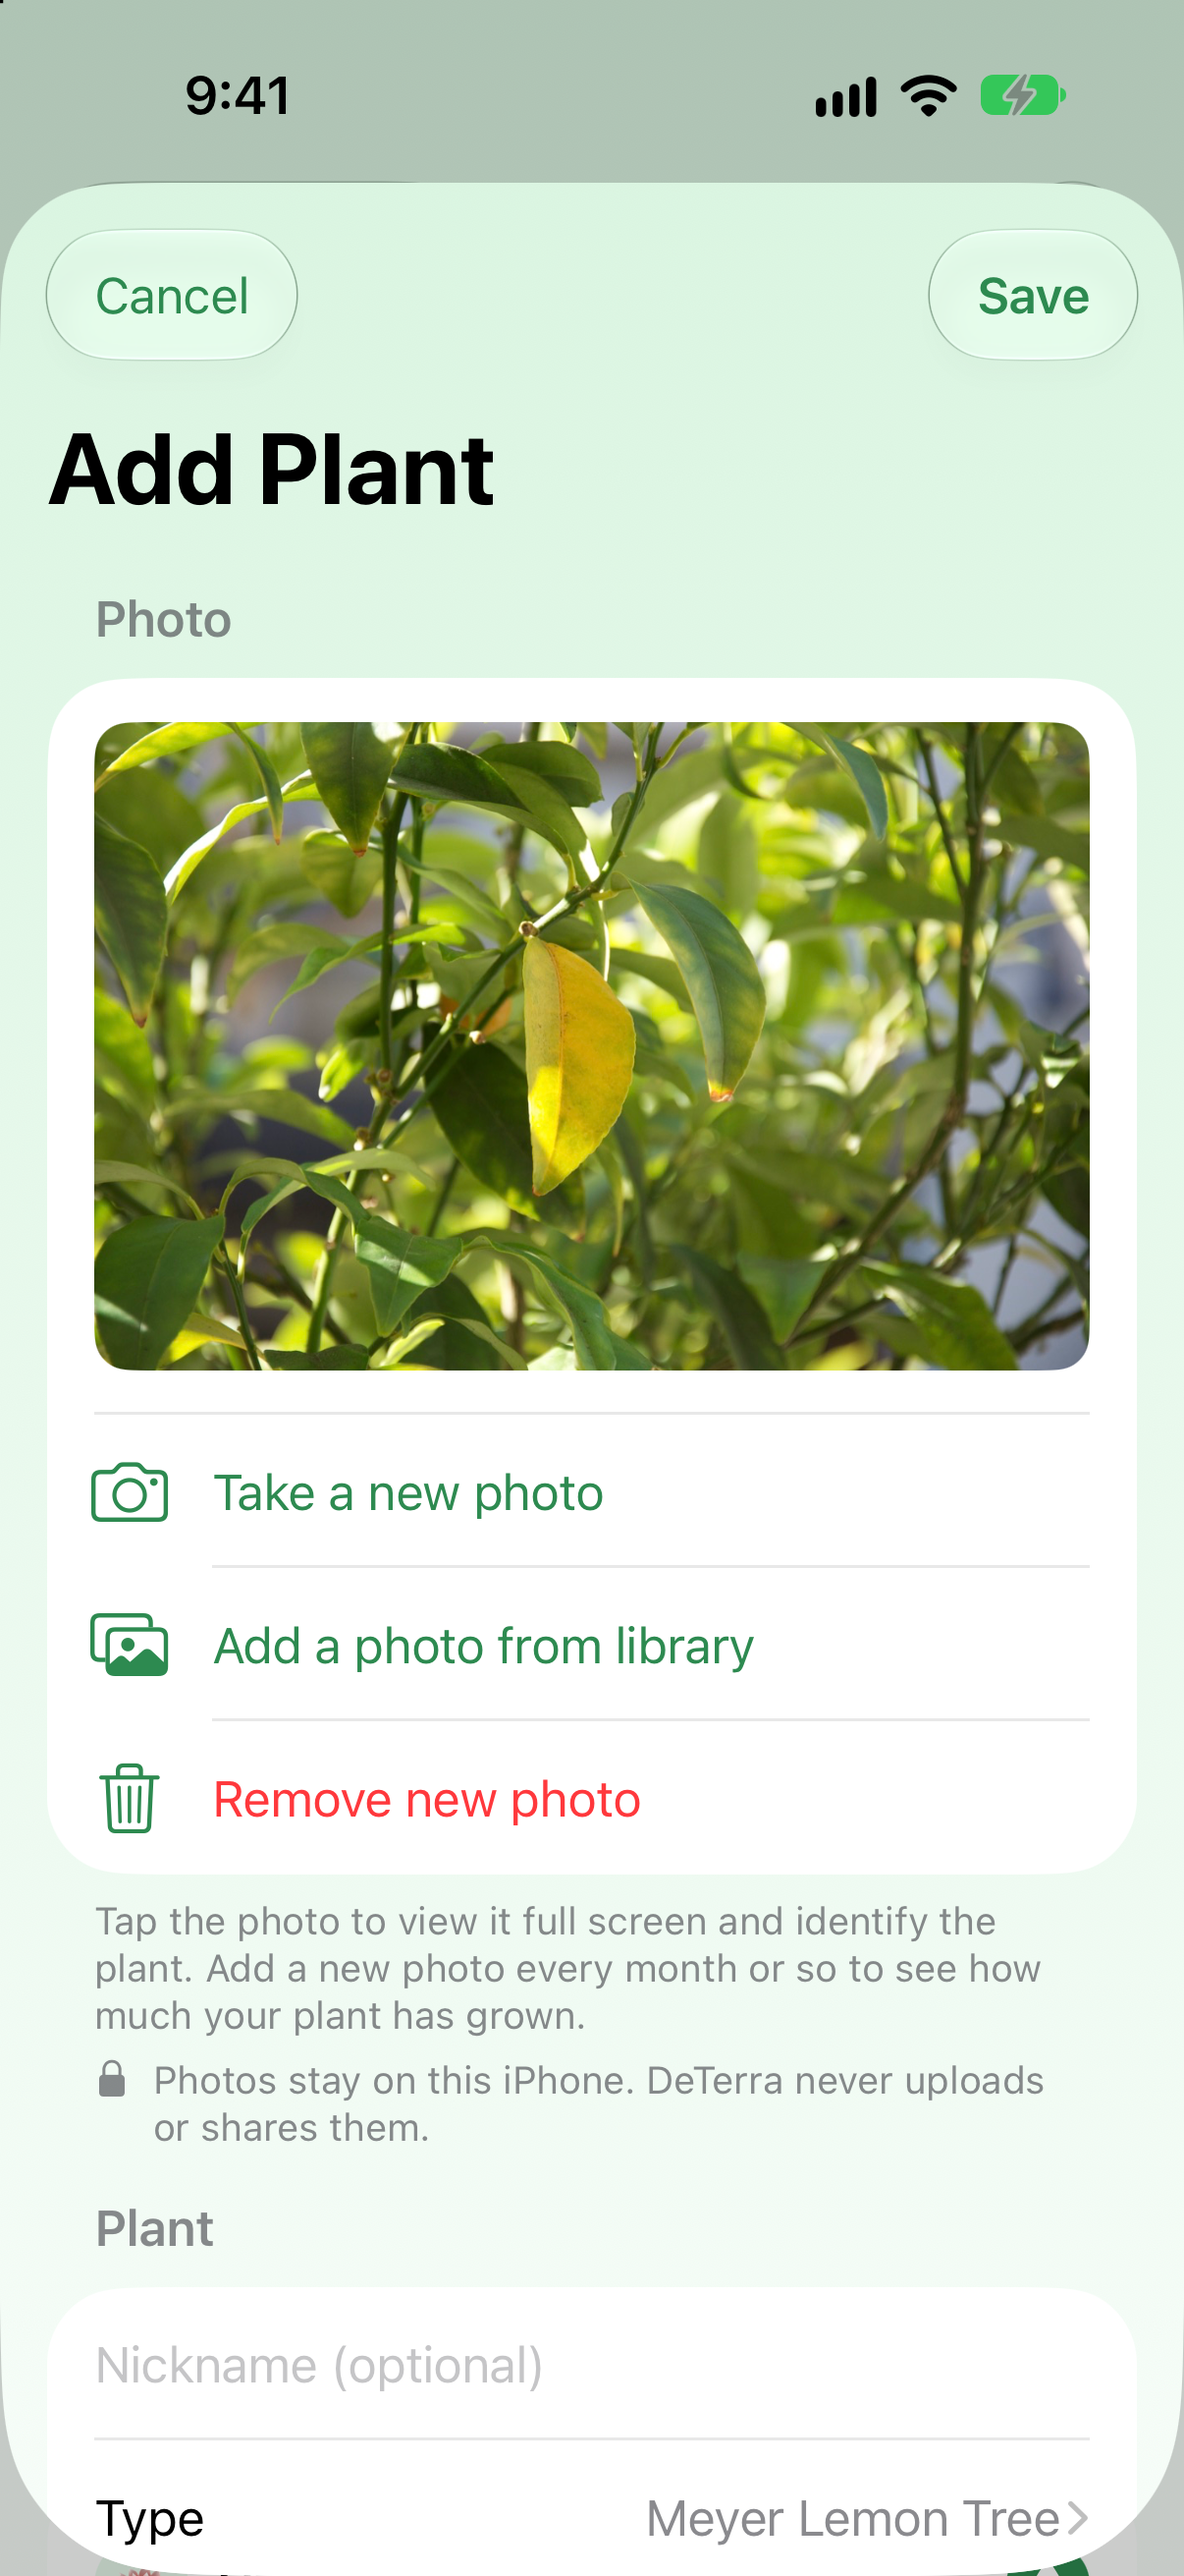
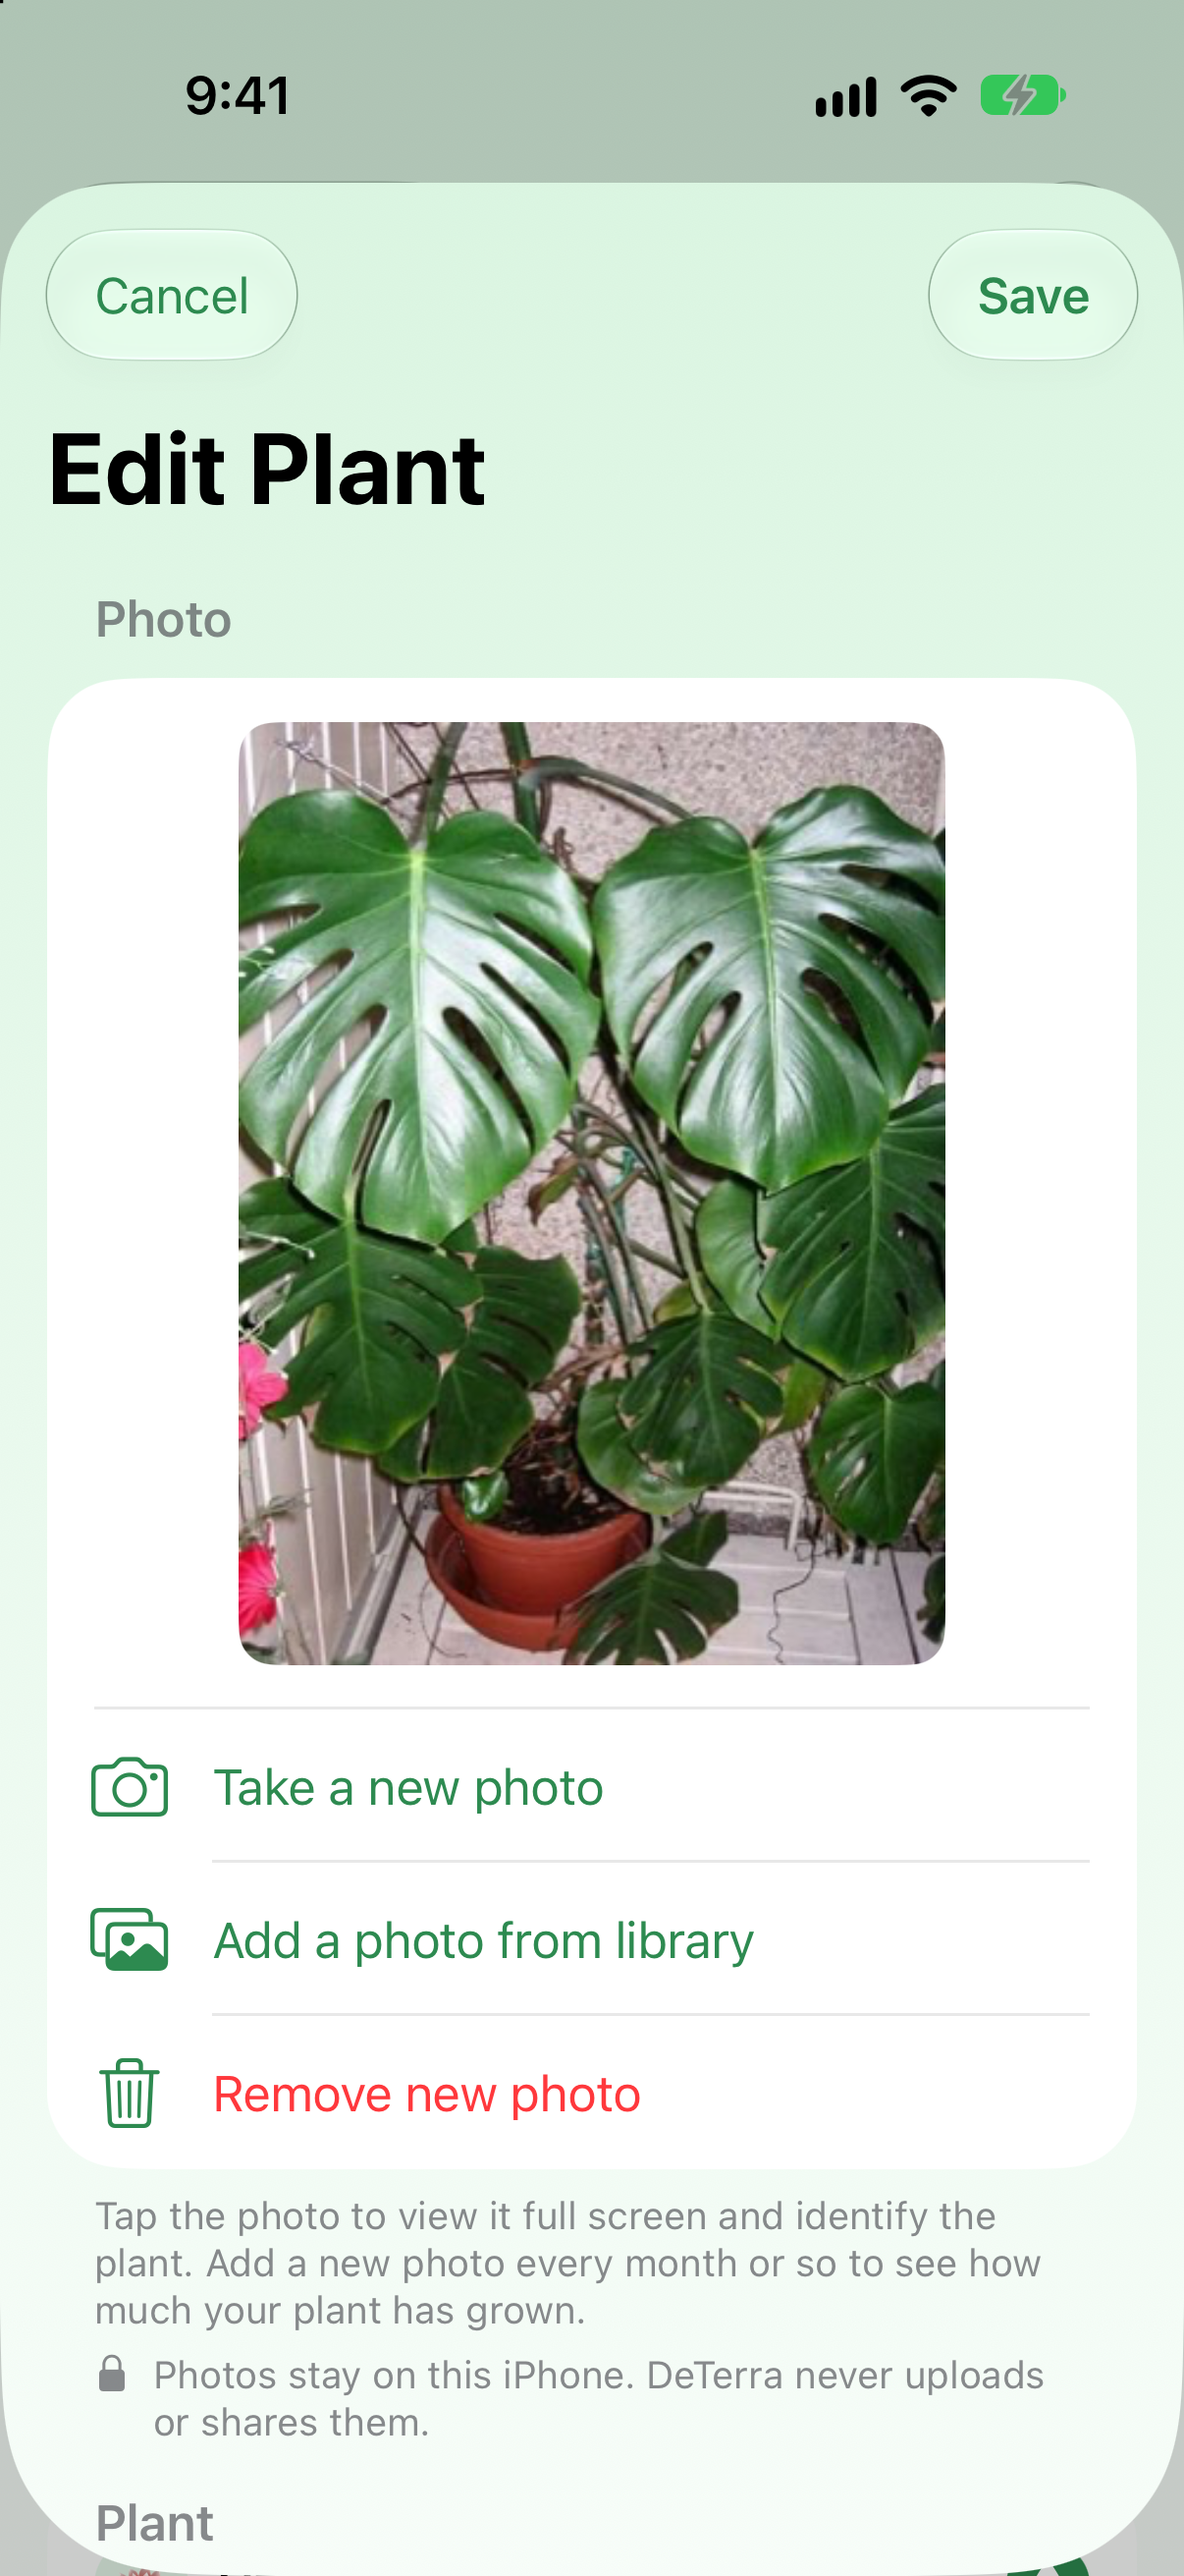
Show whole plant photos and update README screenshots
- The plant form shows the full photo instead of a cropped strip
- README screenshots use a public-domain Monstera photo on Jake

diff --git a/PlantCare/AddPlantView.swift b/PlantCare/AddPlantView.swift
@@ -82,12 +82,12 @@ struct AddPlantView: View {
                         Button {
                             showingPhoto = true
                         } label: {
+                            // Show the WHOLE photo (fit, not crop), so the full plant is visible.
                             Image(uiImage: image)
                                 .resizable()
-                                .scaledToFill()
-                                .frame(maxWidth: .infinity)
-                                .frame(height: 220)
+                                .scaledToFit()
                                 .clipShape(RoundedRectangle(cornerRadius: 12))
+                                .frame(maxWidth: .infinity, maxHeight: 320)
                         }
                         .buttonStyle(.plain)
                         .accessibilityLabel("View photo")

diff --git a/README.md b/README.md
@@ -8,7 +8,7 @@ A simple iPhone app for tracking houseplants and when they need water. Built wit
 
 <p>
   <img src="screenshots/plants.png" width="160" alt="My Plants list grouped by due date">
-  <img src="screenshots/add-plant-photo.png" width="160" alt="Add Plant form with a photo and privacy note">
+  <img src="screenshots/add-plant-photo.png" width="160" alt="Edit Plant form showing a whole Monstera photo and the privacy note">
   <img src="screenshots/plant-search.png" width="160" alt="Searching the plant type list for ferns">
   <img src="screenshots/plant-health.png" width="160" alt="Plant Health results for yellow leaves">
   <img src="screenshots/weather.png" width="160" alt="Weather tab with map and 7-day forecast">
